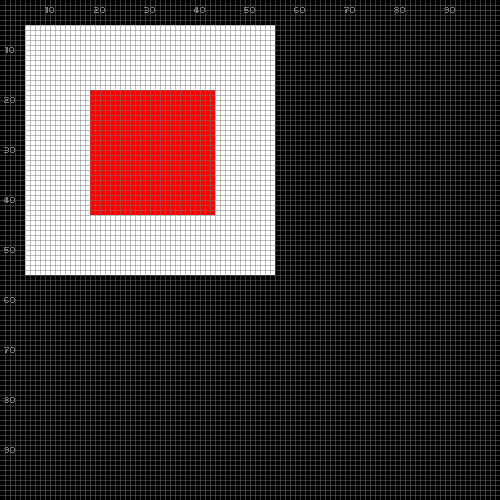
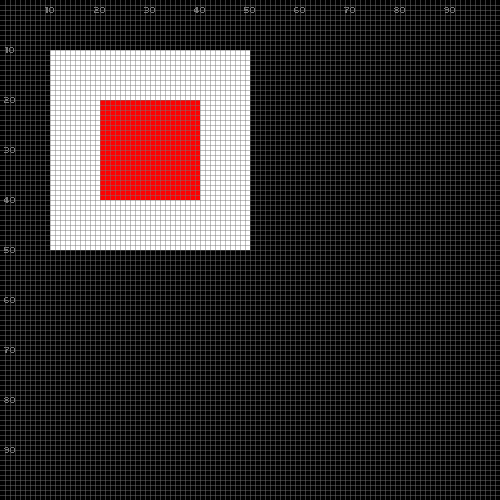
...

Changed region(s): [[0.03, 0.03, 0.57, 0.57], [0.18, 0.18, 0.45, 0.45]]

diff --git a/tst/layer-hier.c b/tst/layer-hier.c
@@ -17,7 +17,7 @@ int main (void) {
 
     pico_set_layer("L");
     pico_set_view(-1, NULL, NULL,
-        &(Pico_Rel_Rect){'%', {0.3, 0.3, 0.5, 0.5}, PICO_ANCHOR_C, NULL},
+        &(Pico_Rel_Rect){'%', {0.3, 0.3, 0.4, 0.4}, PICO_ANCHOR_C, NULL},
         NULL, NULL, NULL, NULL
     );
     pico_set_color_clear(PICO_COLOR_WHITE);
@@ -34,7 +34,7 @@ int main (void) {
     pico_layer_image("root", "img", "open.png");
     pico_set_layer("img");
     pico_set_view(-1, NULL, NULL,
-        &(Pico_Rel_Rect){'%', {0.7, 0.7, 0.5, 0.5}, PICO_ANCHOR_C, NULL},
+        &(Pico_Rel_Rect){'%', {0.7, 0.7, 0.4, 0.4}, PICO_ANCHOR_C, NULL},
         NULL, NULL, NULL, NULL
     );
 
